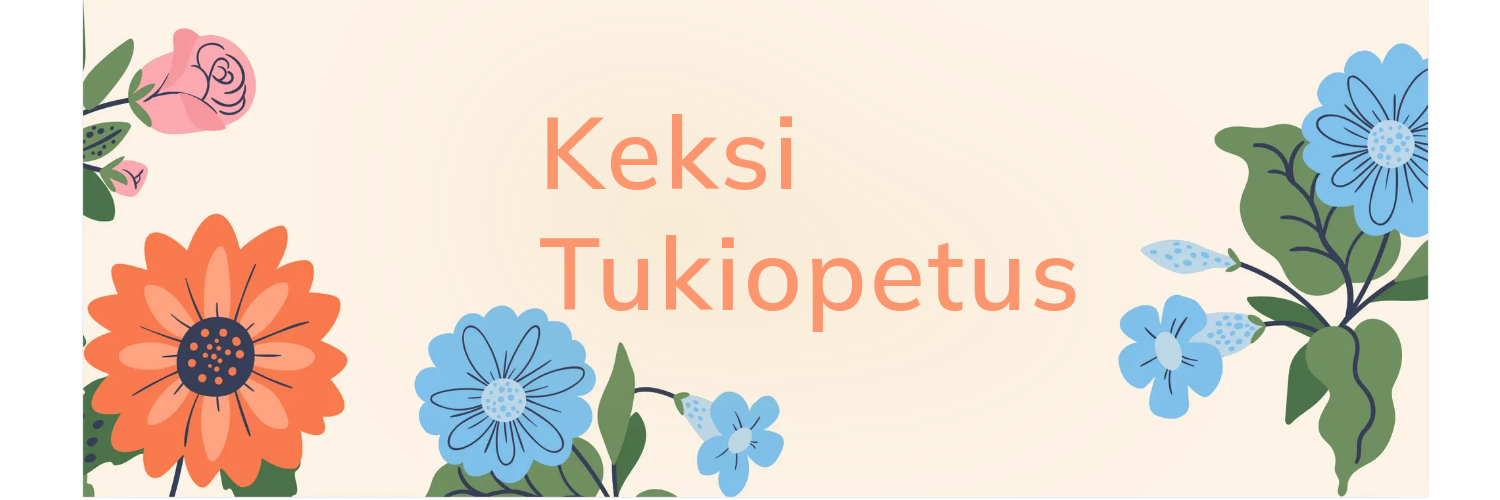
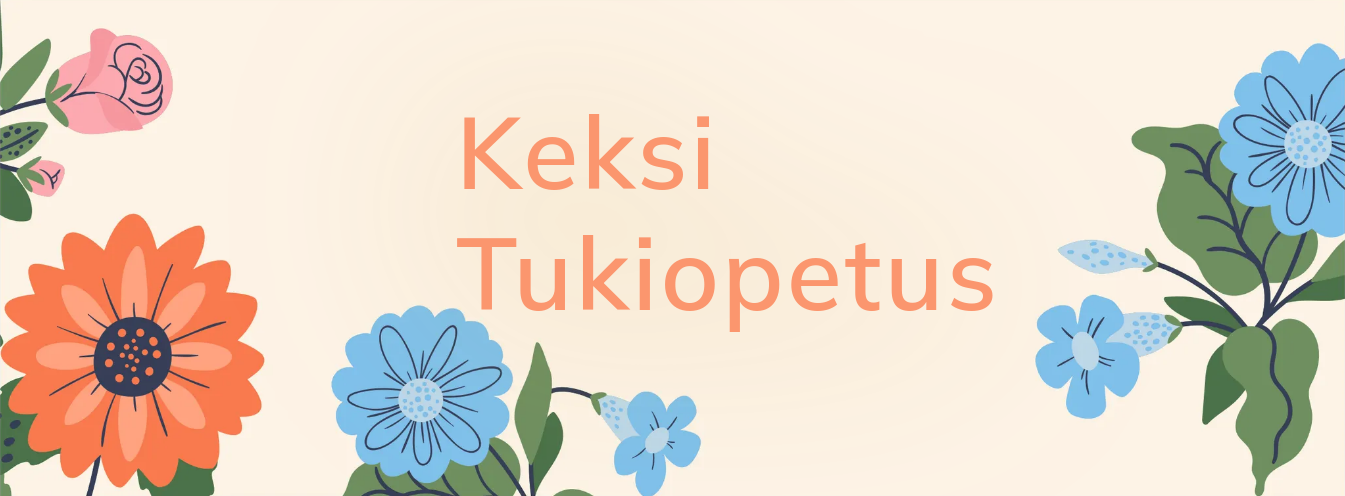
Remove transparent part of the social sharing image

diff --git a/site.config.ts b/site.config.ts
@@ -24,7 +24,7 @@ export default siteConfig({
   // mastodon: '#', // optional mastodon profile URL, provides link verification
   // newsletter: '#', // optional newsletter URL
   instagram: 'keksi_labs', // optional instagram username
-  // youtube: 'TravelingVanProblem', // optional youtube channel name or `channel/UCGbXXXXXXXXXXXXXXXXXXXXXX`
+  //youtube: '@KeksiTukiopetus', // optional youtube channel name or `channel/UCGbXXXXXXXXXXXXXXXXXXXXXX`
   // reddit: 'TravelingVanProblem', // optional reddit username
 
   // default notion icon and cover images for site-wide consistency (optional)
